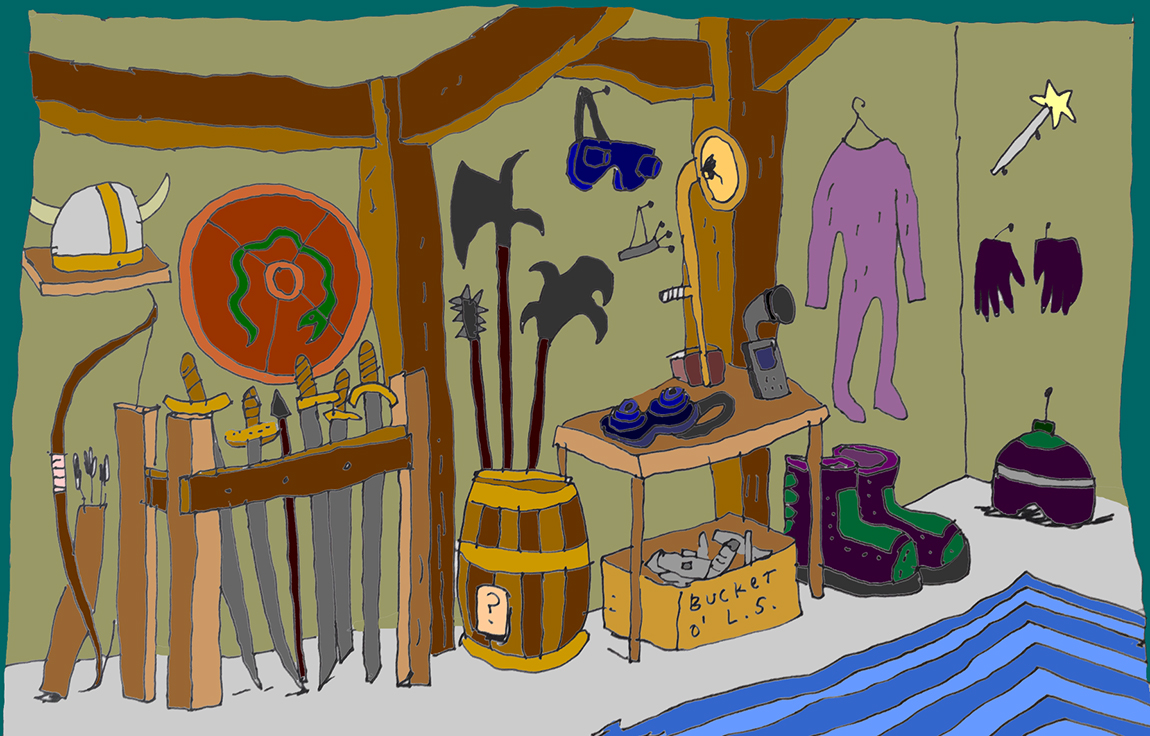
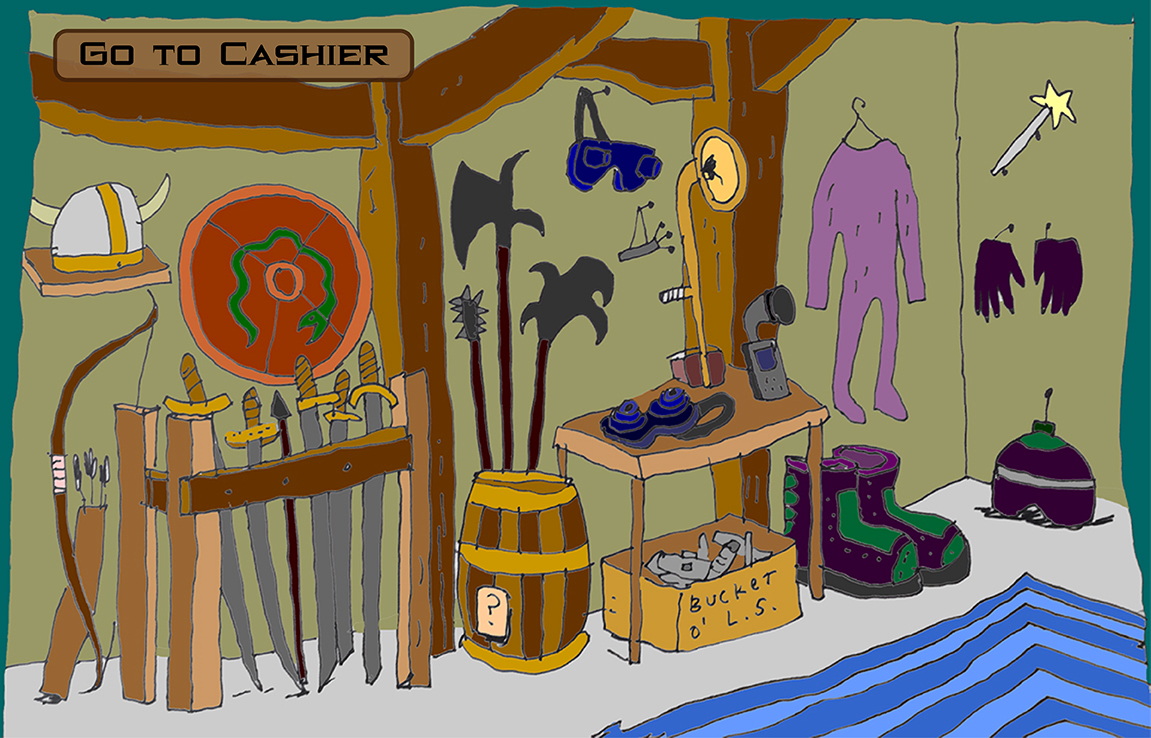
added cashier form

diff --git a/camp_armoury.html b/camp_armoury.html
@@ -38,6 +38,7 @@
     <area target="" alt="Sword 3" title="Sword 3" class="lightwindow" params="lightwindow_width=500,lightwindow_height=500" href="https://dl.dropbox.com/s/uoffidlmy4jcc64/CampArmoury_item_sword.jpg" coords="335,380,344,371,350,379,346,407,362,417,347,426,346,434,353,644,342,660,330,443,324,417,333,408,341,399" shape="poly">
     <area target="" alt="Sword 4" title="Sword 4" class="lightwindow" params="lightwindow_width=500,lightwindow_height=500" href="https://dl.dropbox.com/s/uoffidlmy4jcc64/CampArmoury_item_sword.jpg" coords="374,340,377,378,397,400,391,406,381,402,384,474,381,666,369,687,361,481,363,394,354,405,350,395,361,382,359,361,361,341" shape="poly">
     <area target="" alt="Magic Carpet" title="Magic Carpet" class="lightwindow" params="lightwindow_width=500,lightwindow_height=500" href="https://dl.dropbox.com/s/jlb71ulxski5u9j/CampArmoury_item_spear.jpg" coords="592,733,618,718,623,724,664,706,685,698,750,684,803,672,843,653,874,644,918,625,944,617,967,614,977,596,1005,587,1024,568,1144,610,1146,672,1148,684,1148,733" shape="poly">
+    <area target="" alt="Go To Cashier" title="Go To Cashier" class="lightwindow" params="lightwindow_width=1000,lightwindow_height=600" href="https://forms.gle/AFedvkQjtizZAXJbA" coords="54,27,415,83" shape="rect">
 </map>
 </body>
 

diff --git a/elevator_tunnel.html b/elevator_tunnel.html
@@ -13,7 +13,7 @@
 <center><img src="assets/maps/Secret_Tunnel.jpg" usemap="#image-map"></center>
 
 <map name="image-map">
-    <area target="" alt="Door" title="Door" href="" coords="881,61,1002,68,1005,395,900,359" shape="poly">
+    <area target="" alt="Door" title="Door" href="https://aicl2020.github.io/camp_armoury.html" coords="881,61,1002,68,1005,395,900,359" shape="poly">
     <area target="" alt="Keypad 1" title="Keypad 1" href="" coords="1047,197,1093,210,1094,263,1049,246" shape="poly">
     <area target="" alt="Security Cam" title="Security Cam" href="" coords="750,69,754,53,784,27,804,56,780,83,764,87,752,83" shape="poly">
     <area target="" alt="Mysterious Sign" title="Mysterious Sign" href="" coords="278,84,294,146,358,114,335,60" shape="poly">
